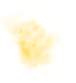
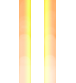
Changed burn animation

diff --git a/src/java/com/chorki/game/racetoimpress/Board.java b/src/java/com/chorki/game/racetoimpress/Board.java
@@ -162,7 +162,7 @@ public class Board extends JPanel implements Runnable, Commons {
 		int rem = burn.size(); 
 		while (rem > 0) {
 			Burn brn = burn.poll();
-			if (pressedBoost || (pressedBoost && !pressedAccelarator)) g.drawImage(brn.getImage(), (int)player.getX()-10, (int)player.getY()+70,  this);
+			if (pressedBoost || (pressedBoost && !pressedAccelarator)) g.drawImage(brn.getImage(), (int)player.getX()-13, (int)player.getY()+100,  this);
 			burn.add(brn);
 			rem--;
 		}
